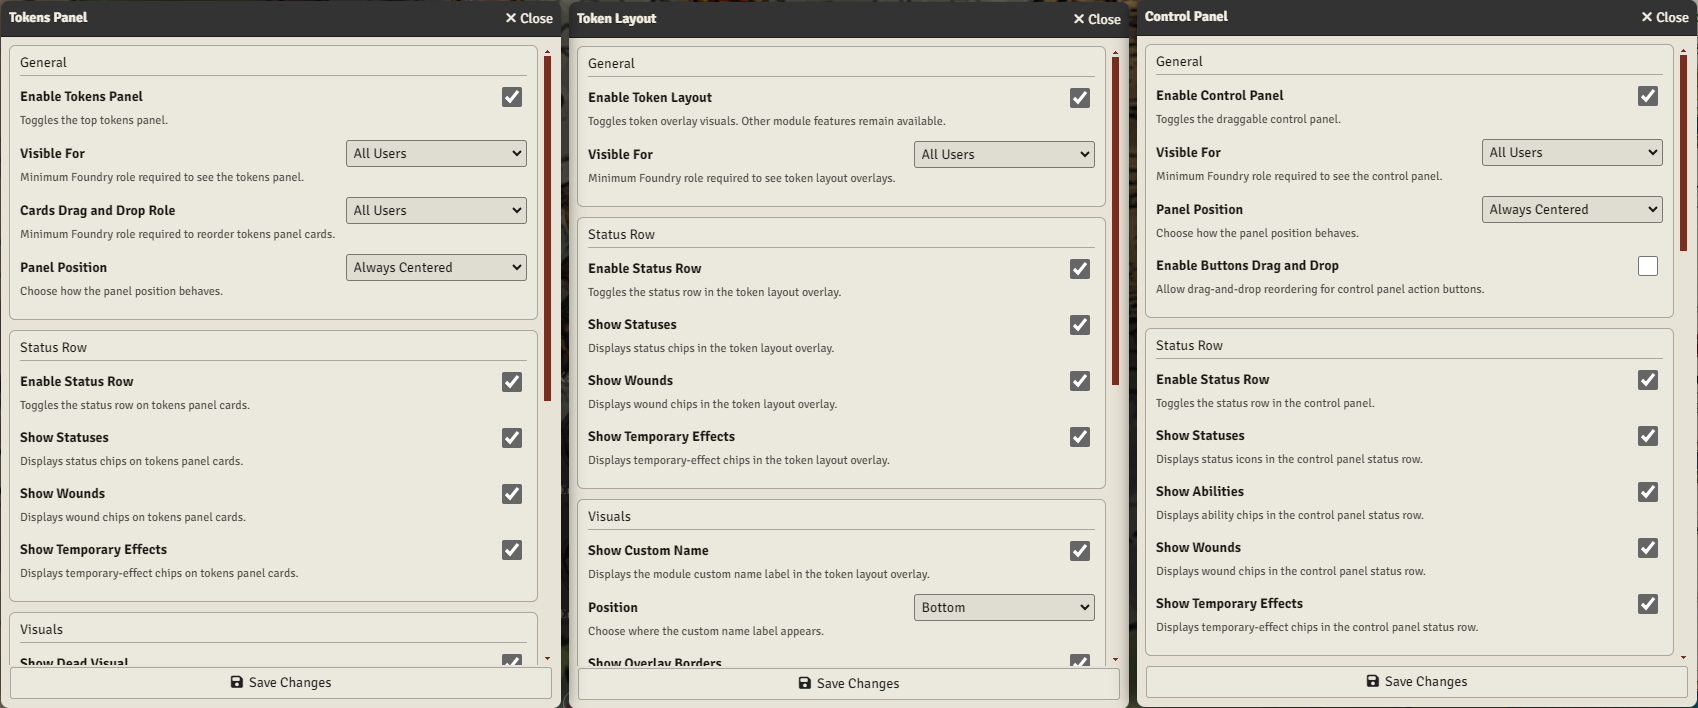
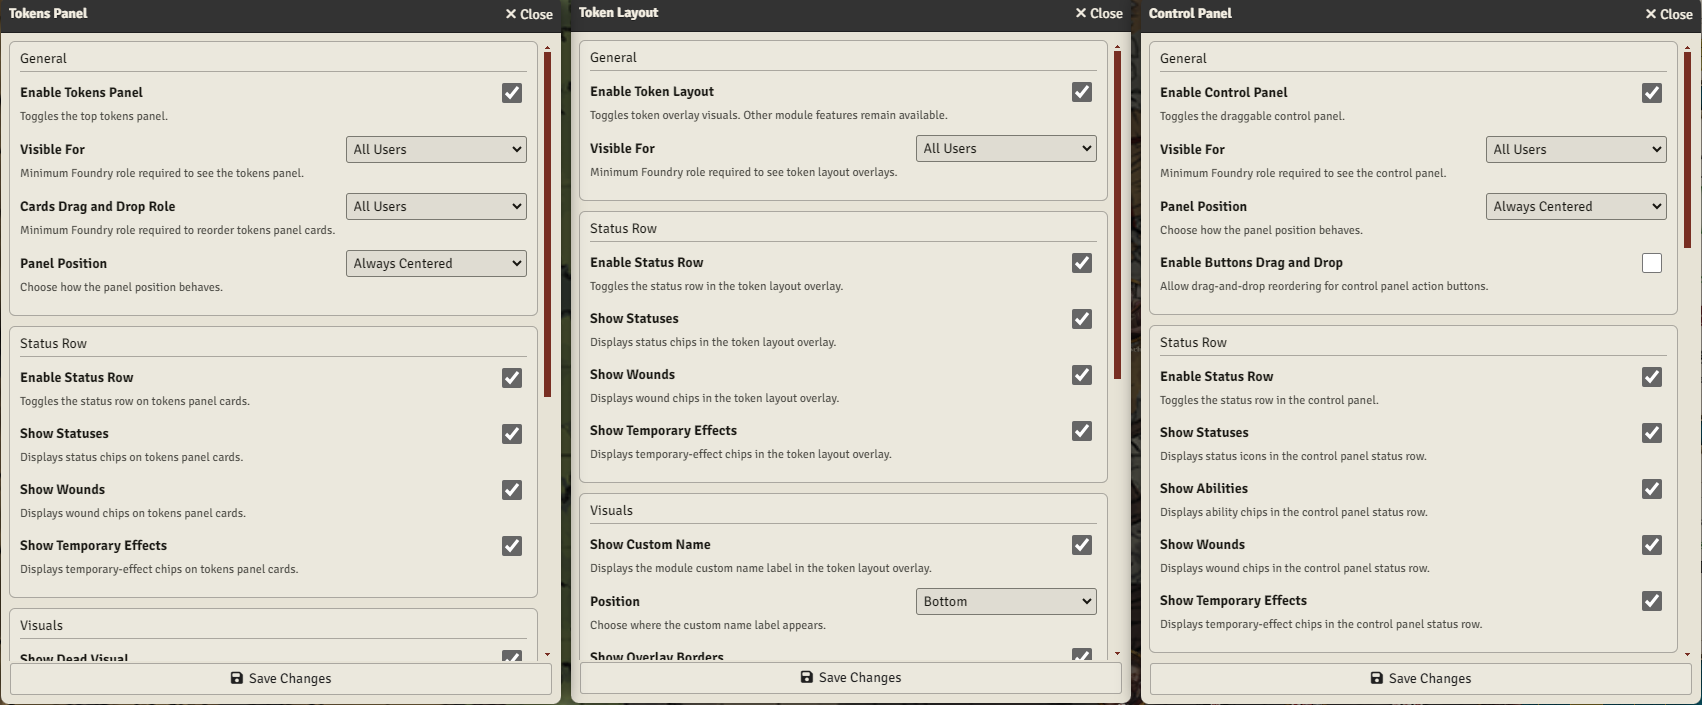
Update readme

diff --git a/README.md b/README.md
@@ -2,96 +2,81 @@
 
 # Warhammer: The Old World - Combat Overlay
 
-FoundryVTT module for combat overlay and automation helpers for Warhammer: The Old World Roleplaying Game.
+A FoundryVTT module that adds a combat overlay and automation helpers for Warhammer: The Old World Roleplaying Game.
 
 ![Combat Overlay Screenshot](assets/readme/overview.jpg)
 
-## Top Panel
+## Important Note
 
-![Top Panel](assets/readme/top-panel.png)
+Most features have been tested in GM mode, with more limited testing on the player side.  
+You may still run into issues outside GM workflows. If you do, please report them through GitHub Issues.
 
-Functionality:
-- Shows scene tokens as portrait cards for fast battlefield overview.
-- Click a card to select/control its token on canvas.
-- Shift/Ctrl-click keeps current multi-selection behavior.
-- Double-click a card opens the actor/token sheet (when permitted).
-- Supports drag-and-drop card reordering with per-scene saved order.
-- Supports panel dragging/position memory (or locked/centered modes via settings).
-- Displays contextual chip and portrait tooltips.
+## Tokens Panel
 
-## Token Overlay
+![Tokens Panel](assets/readme/tokens-panel.png)
 
-![Token Overlay](assets/readme/token-overlay.png)
+The Tokens Panel provides a quick, readable view of everyone in the scene at the top of the screen. It makes switching between tokens much faster, and it can be arranged with saved order and panel position.
 
-Functionality:
-- Draws overlay labels directly on tokens, including configurable custom name labels.
-- Supports top/bottom name placement with automatic scaling and hit-area updates.
-- Provides token name/type tooltip support when enabled.
-- Adds configurable hover/selection token border styling.
-- Supports dead-token visual treatment when the `dead` condition is active.
-- Keeps token interactivity aligned with overlay bounds for reliable hover/click behavior.
+## Token Layout
+
+![Token Layout](assets/readme/token-layout.png)
+
+Token Layout adds lightweight visuals directly on tokens, so key information stays in place. Names, borders, and status elements are easier to read in busy scenes, and dead-state visuals help make the scene state clear at a glance.
 
 ## Control Panel
 
 ![Control Panel](assets/readme/control-panel.png)
 
-Functionality:
-- Shows focused data for the currently selected token/actor, including name, type, stats, and statuses.
-- Provides one-click condition toggling from the status row.
-- Supports wound controls: left-click adds wound, right-click removes wound, Shift+click rolls wound handling, Ctrl+click resets wounds to 0.
-- Supports miscast dice controls: left-click +1, right-click -1, Shift+click rolls miscast (when available), Ctrl+click resets to 0.
-- Provides action entries for combat flow, including `Defence`, manoeuvre/recover actions, and magic `Accumulate Power` flow when applicable.
-- Includes tooltips and optional drag/drop customization for panel buttons, based on module settings.
+The Control Panel keeps commonly used actor actions, attacks, and info in one place, reducing the need to jump between sheets. It is built for fast scene flow, including ranged weapon reload and common magic flows, with enough settings to fit different table preferences.
 
 ## Settings
 
 ![Settings](assets/readme/settings.png)
 
-### Top Panel Settings
+### Tokens Panel
 
 | Setting | Explanation |
 | --- | --- |
-| Enable Top Panel | Turns the top panel on/off globally. |
-| Minimum Role | Limits who can see/use the top panel. |
-| Card Drag/Drop Minimum Role | Controls who can reorder top-panel token cards. |
-| Position Mode | Chooses panel behavior: free, locked, or always centered. |
-| Drag Handle Side | Chooses drag handle placement (left/right) when free mode is used. |
-| Status Row | Shows/hides status chip row on top-panel cards. |
-| Statuses / Wounds / Temporary Effects Chips | Toggles each chip category shown on cards. |
-| Show Dead Visual | Enables dead-state visuals in the panel. |
-| Tooltips | Master toggle for top-panel tooltips. |
-| Cards / Statuses / Wounds / Temporary Effects / Overflow Tooltips | Fine-grained tooltip toggles per top-panel content type. |
+| Enable Tokens Panel | Toggles the top tokens panel. |
+| Visible For | Minimum Foundry role required to see the tokens panel. |
+| Cards Drag and Drop Role | Minimum Foundry role required to reorder tokens panel cards. |
+| Panel Position | Choose how the panel position behaves. |
+| Drag Button Position | Choose where the top panel drag button appears. |
+| Status Row Group | Shows or hides statuses, wound, and temporary effect chips on cards. |
+| Show Dead Visual | Applies dead-state styling to tokens panel cards. |
+| Tooltips Group | Controls tooltips visibility for cards, statuses, wounds, temporary effects, and overflow indicators. |
 
-### Token Overlay Settings
+### Token Layout
 
 | Setting | Explanation |
 | --- | --- |
-| Enable Overlay | Master toggle for token overlay features. |
-| Minimum Role | Limits who can see/use token overlay enhancements. |
-| Show Border | Enables hover/selection border styling on tokens. |
-| Status Row | Shows/hides token status row. |
-| Statuses / Wounds / Temporary Effects | Toggles each overlay chip category on tokens. |
-| Show Custom Name | Enables overlay name label on token. |
-| Name Position | Places overlay name label at top or bottom. |
-| Show Dead Visuals | Enables dead-state token visual treatment. |
-| Tooltips | Master toggle for token overlay tooltips. |
-| Name / Statuses / Wounds / Temporary Effects / Overflow Tooltips | Fine-grained tooltip toggles for token overlay elements. |
+| Enable Token Layout | Toggles token overlay visuals. Other module features remain available. |
+| Visible For | Minimum Foundry role required to see token layout overlays. |
+| Show Overlay Borders | Displays custom overlay borders on hovered or controlled tokens. |
+| Status Row Group | Shows or hides statuses, wound, and temporary effect chips on cards. |
+| Show Custom Name | Displays the module custom name label in the token layout overlay. |
+| Position | Choose where the custom name label appears. |
+| Show Dead Token Visuals | Applies grayscale dead-state styling to tokens with the dead condition. |
+| Tooltips Group | Controls tooltips visibility for cards, statuses, wounds, temporary effects, and overflow indicators. |
 
-### Control Panel Settings
+### Control Panel
 
 | Setting | Explanation |
 | --- | --- |
-| Enable Control Panel | Turns the control panel on/off globally. |
-| Minimum Role | Limits who can see/use the control panel. |
-| Position Mode | Chooses panel behavior: free, locked, or always centered. |
-| Enable Buttons Drag/Drop | Allows manual reordering of control panel buttons. |
-| Status Row | Shows/hides status row in control panel. |
-| Statuses / Abilities / Wounds / Temporary Effects | Toggles each status-row category in panel. |
-| Portrait Block | Enables/disables portrait area. |
-| Name / Image / Stats (Portrait Subsections) | Toggles each portrait subsection visibility. |
-| Show Dead Portrait Status | Shows dead-state visual indicator on portrait. |
-| Grid Buttons | Enables/disables action button grid. |
-| Action / Weapons / Magic / Item Rarity Buttons | Toggles each grid button group. |
-| Tooltips | Master toggle for control panel tooltips. |
-| Show Tooltip Click Behavior Text | Shows/hides click-hint instructions inside tooltips. |
-| Name / Stats / Statuses / Abilities / Wounds / Temporary Effects / Buttons Tooltips | Fine-grained tooltip toggles per panel element. |
+| Enable Control Panel | Toggles the draggable control panel. |
+| Visible For | Minimum Foundry role required to see the control panel. |
+| Panel Position | Choose how the panel position behaves. |
+| Enable Buttons Drag-Drop | Allow drag-and-drop reordering for control panel action buttons. |
+| Enable Status Row | Toggles the status row in the control panel. |
+| Status Row Group | Shows or hides statuses, wound, and temporary effect chips on cards. |
+| Enable Portrait | Toggles the portrait section in the control panel. |
+| Show Name | Displays the selected token name on the control panel portrait. |
+| Show Image | Displays the selected token portrait image in the control panel. |
+| Show Stats | Displays the full stats block (wounds, resilience, speed, miscast dice) on the control panel portrait. |
+| Show Dead Portrait Status | Applies dead-state styling to portraits of selected tokens with the dead condition. |
+| Enable Grid Buttons | Toggles the control panel grid buttons area. |
+| Show Action Buttons | Enables manoeuvre, recover, and general action buttons in the control panel grid (excluding magic buttons). |
+| Show Weapon Buttons | Enables weapon buttons in the control panel grid. |
+| Show Magic Buttons | Enables magic-related buttons in the control panel grid, including special magic and miscast actions. |
+| Show Items Rarity | Shows rarity-based visual accents on control panel item slots. |
+| Tooltips Group | Controls tooltips visibility for cards, statuses, wounds, temporary effects, and overflow indicators. |
